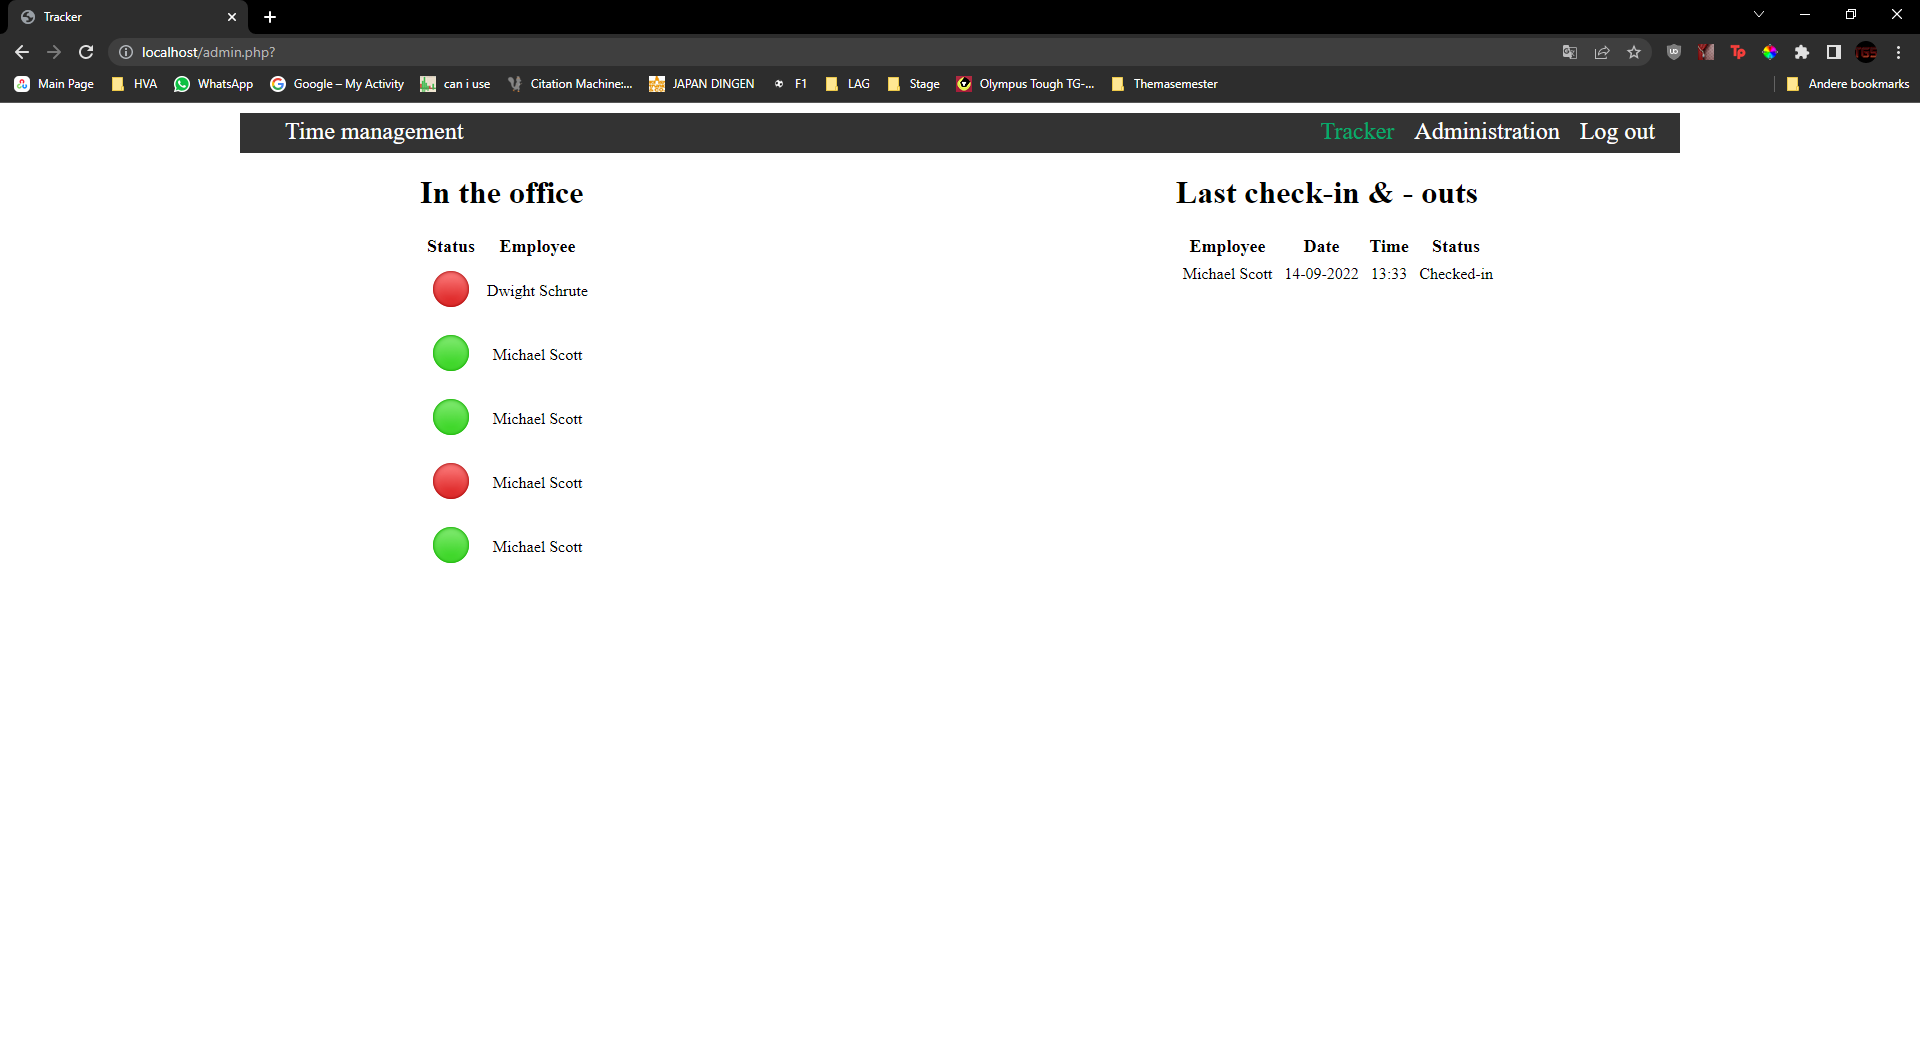
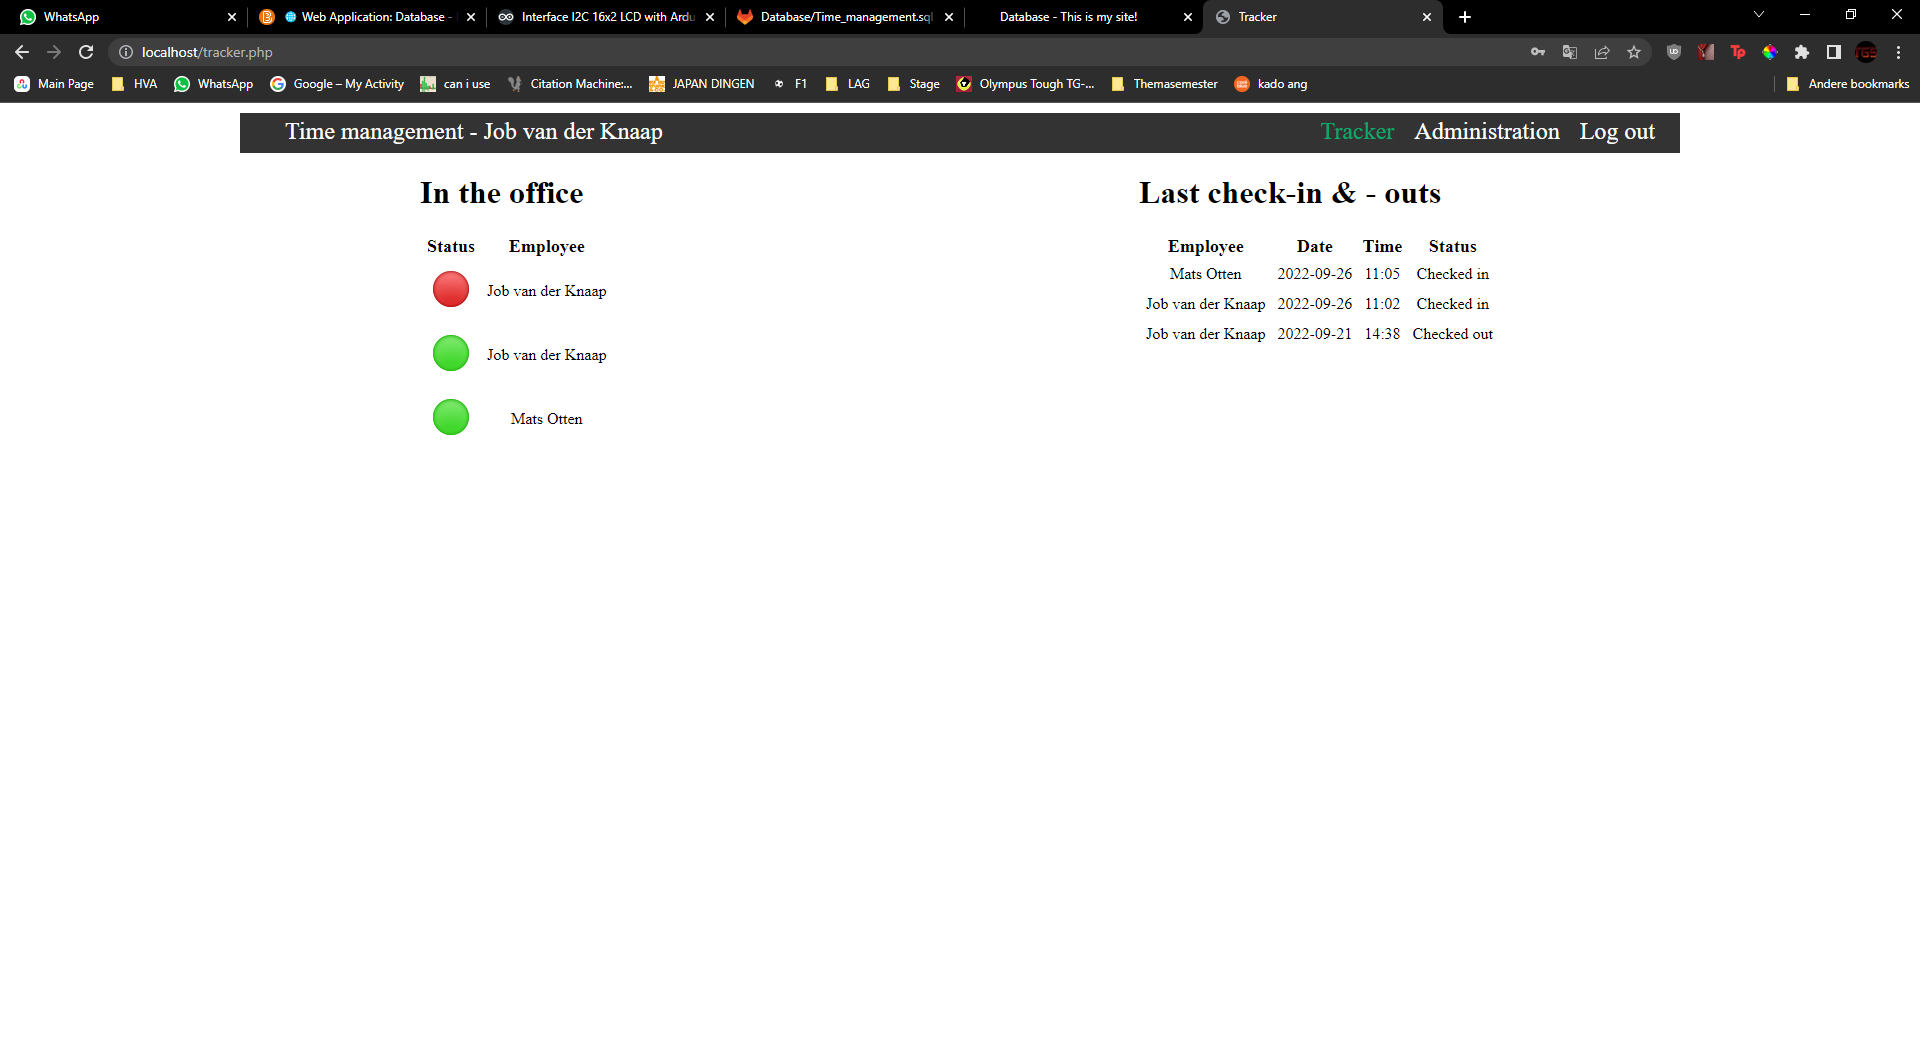
Added database in portfolio and changed the tracker image to the connected tracker image.

diff --git a/docs/database.md b/docs/database.md
@@ -1,0 +1,3 @@
+# Database
+Here is a screenshot of the tracking page with the connected database and data. In my PHP code I still need to change the query to get the status table working as it should be. In the top left you can see the name of the current user that is logged in.<br>
+![Tracker page with connected database.](images/tracker_page.png)
